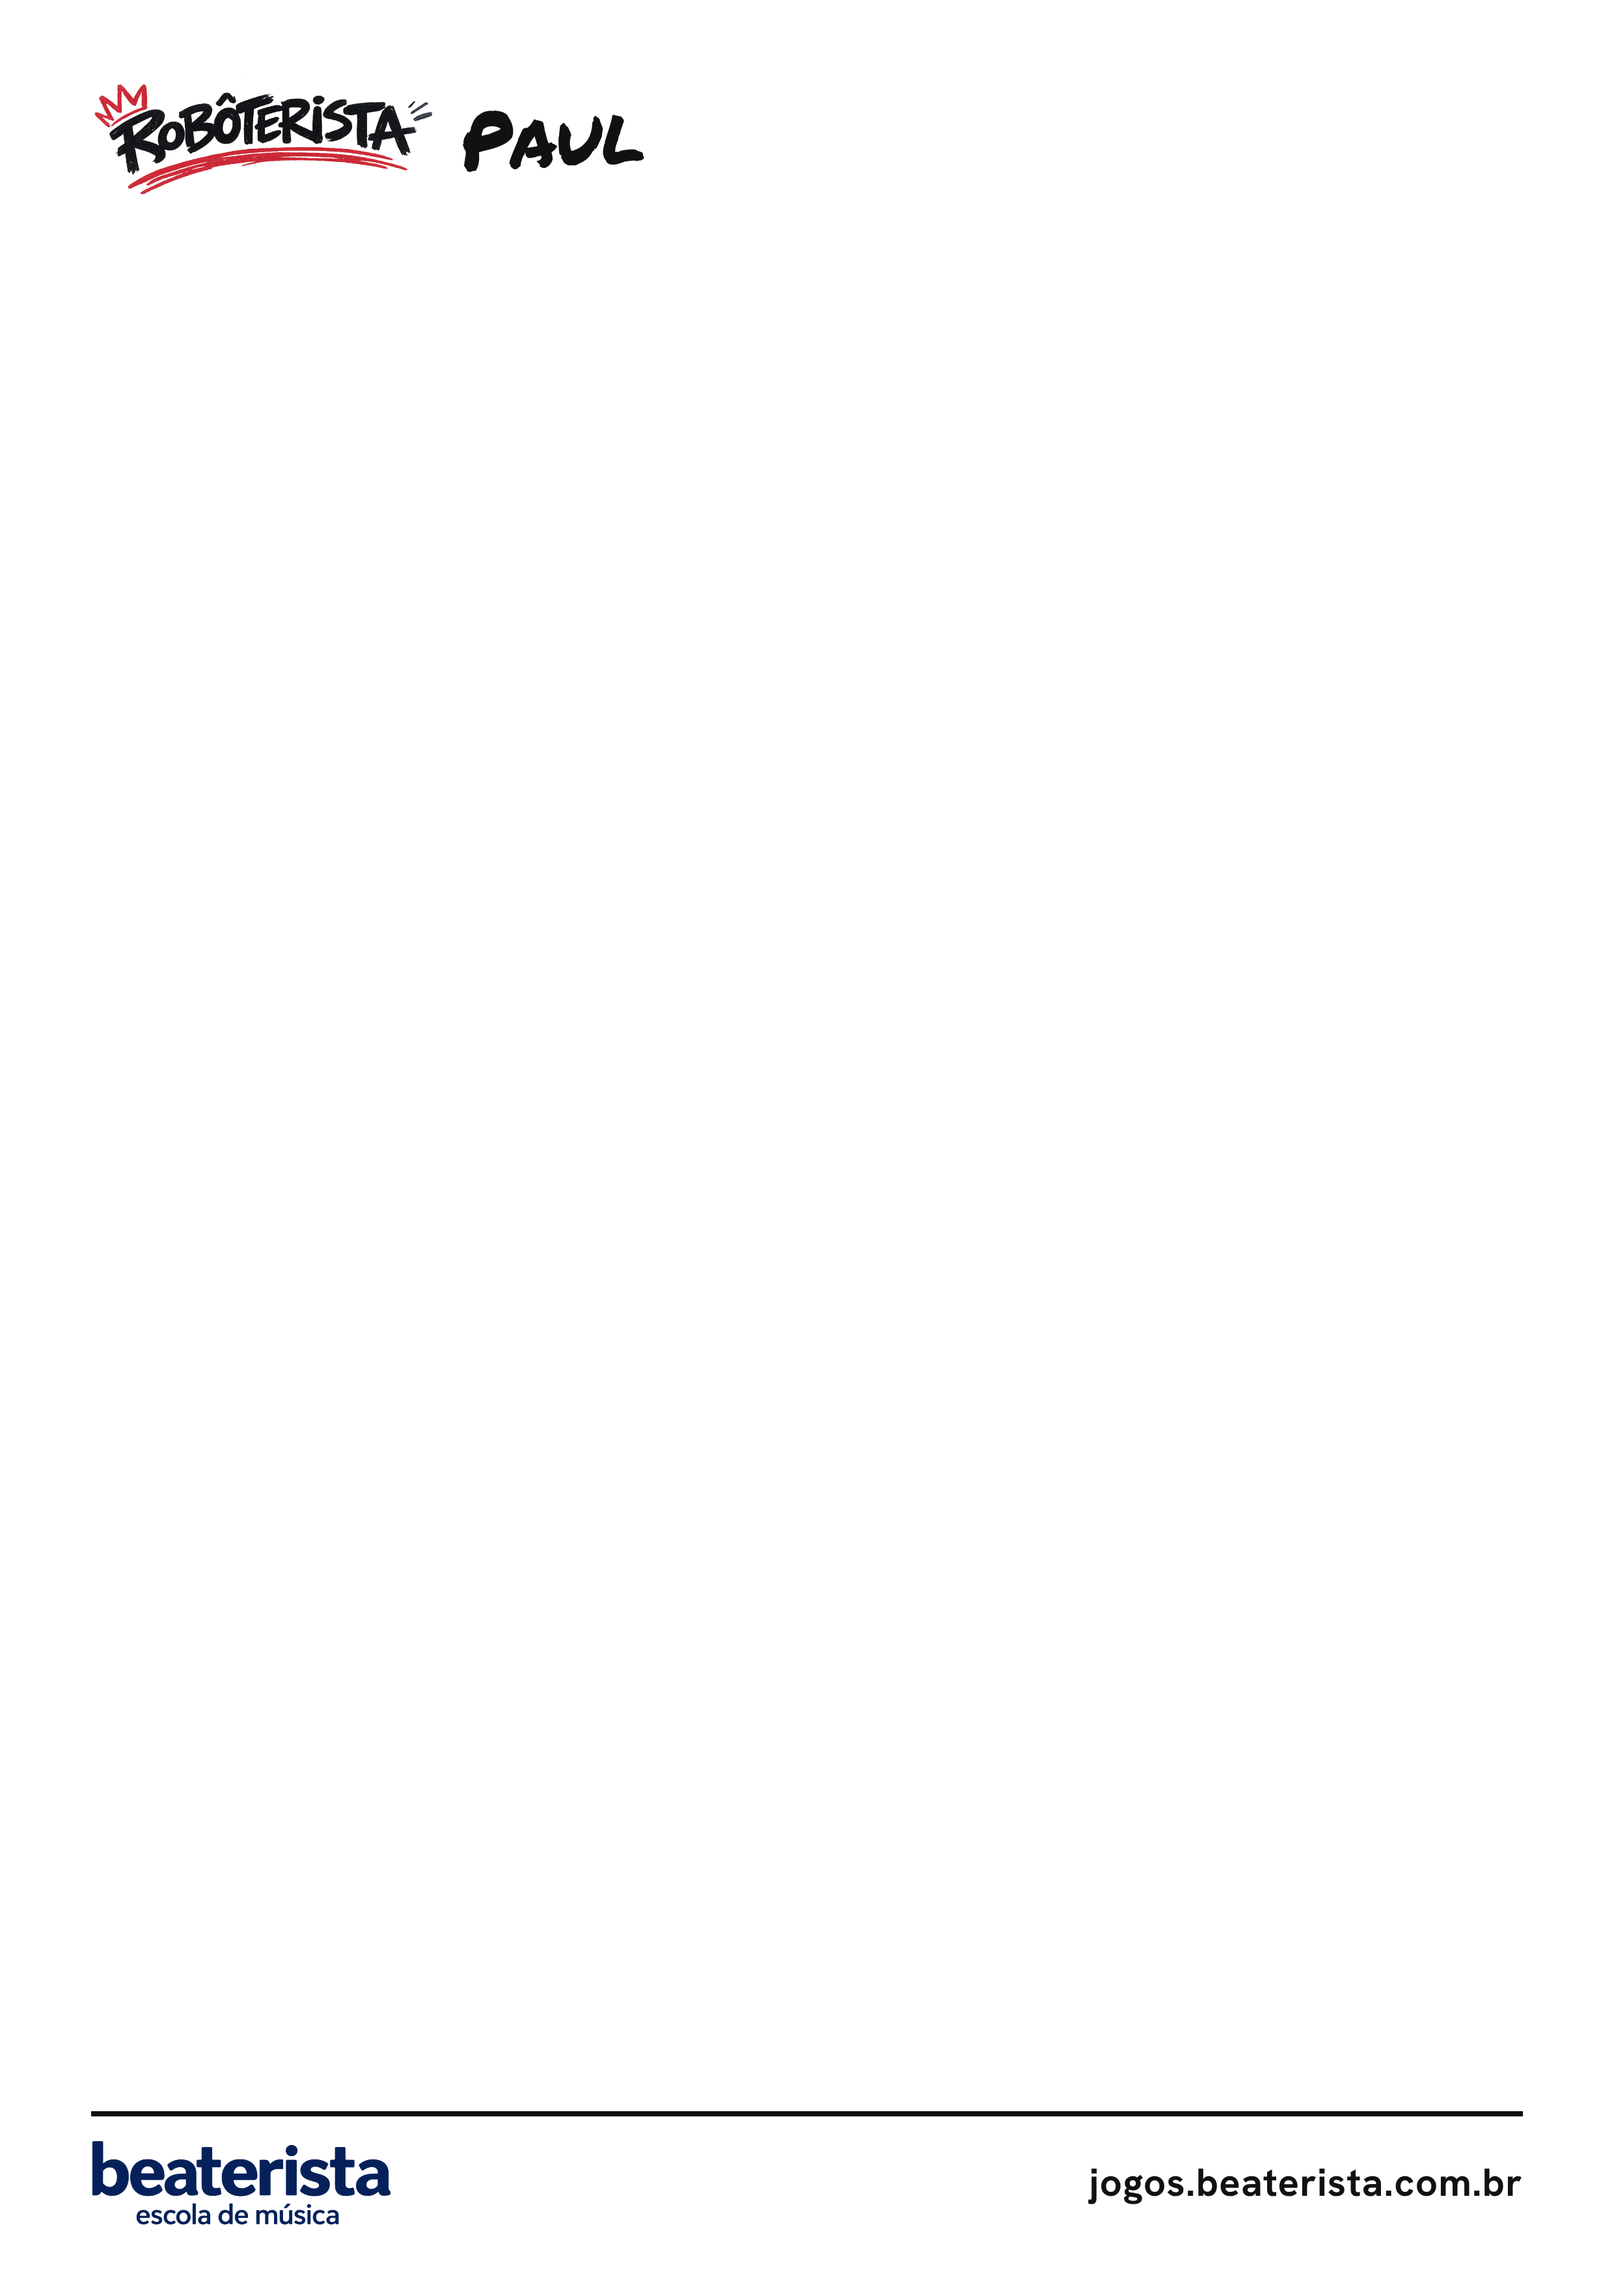
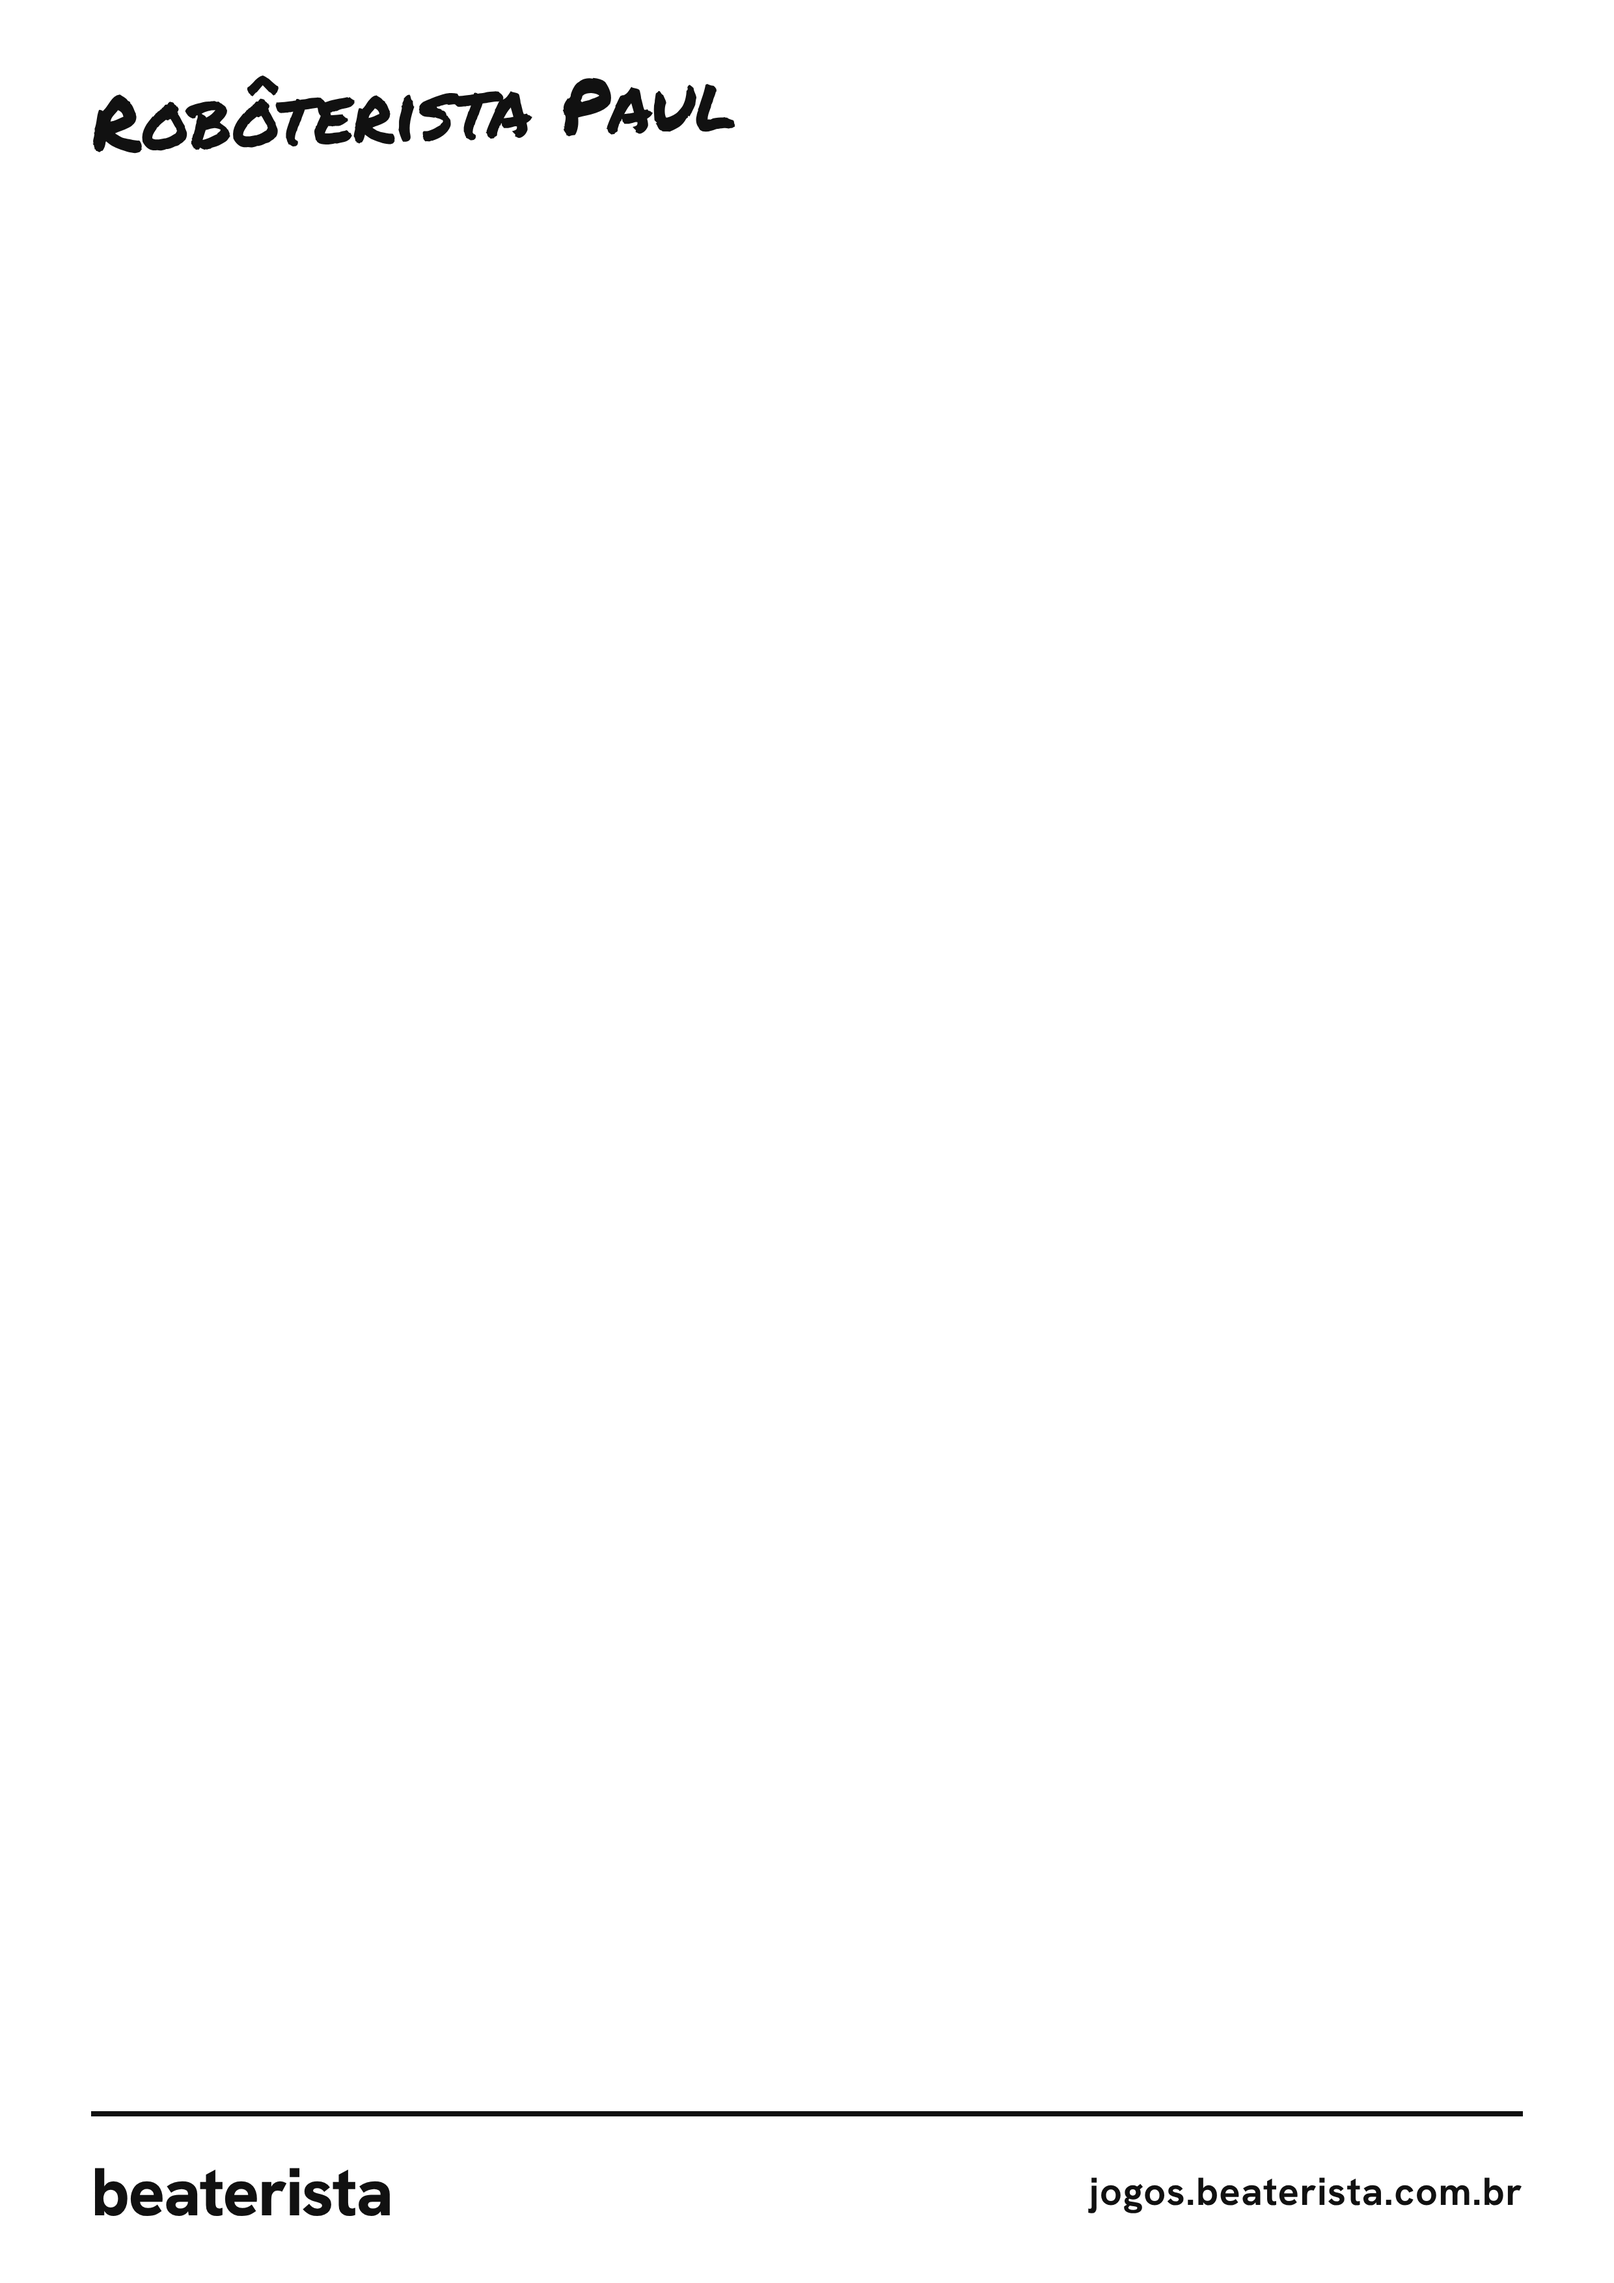
Fundos A4 de colorir: tudo escrito e em preto e branco (4 opções)
Claude-Session: https://claude.ai/code/session_017Ekti4WphxnBKQZ26FjJeN

Changed region(s): [[0.0621, 0.0311, 0.4657, 0.0932], [0.031, 0.9322, 0.2484, 0.9943], [0.6831, 0.9322, 0.9315, 0.9632]]

diff --git a/PASSAGEM.md b/PASSAGEM.md
@@ -85,7 +85,7 @@ Resumo do que existe, onde fica e como publicar. A Bea trabalha **uma ferramenta
     - Folhas e recortes em `assets/originals/paul-png/folhas-estudo/` (`recortes-folha-1..4/paul-POSE.png`, uns 350 a 500 px cada, tamanho original, sem ampliar). Recorte pelo contorno: `python3 scripts/paul-recortar-folha.py FOLHA.png PASTA` (precisa `pip install scipy`). Na folha 1 os desenhos encostam um no outro: 3 recortes saíram com defeito e foram apagados (ouvindo, pad, pad-metronomo). As folhas 5 e 6 vieram **com fundo cinza borrado** (não transparente): ficaram guardadas inteiras, sem recortar.
     - Os escolhidos pro app ficam em `coloridos-media/` (lendo-partitura, ouvindo, pad, escrevendo, pad-metronomo, mostrando-partitura, estante); `scripts/paul-colorido-webp.py` lê `coloridos-media` e `coloridos-hd` (o em alta ganha). `POSES` agora tem 26. Onde entram: Figuras = estante, Toca Aqui = pad, humor `idea` = escrevendo; dicas do cartão azul com pad, pad-metronomo, metronomo e estante.
     - Cartazes 17 (colorindo), 18 (metronomo) e 19 (**"o treino do Paul em 8 passos"**, grade com as 8 poses de estudo; no script é o item com `grade`). Agora são 19.
-  - **Pra colorir (pedido da Bea em 14/nov, pra VENDER NA LOJINHA)**: **a Bea decidiu mandar as artes de colorir já prontas (em linha); não gerar traço por programa.** Quando chegarem: guardar em `pra-colorir/`, subir pro Drive e montar o PDF da Lojinha. **Fundos de página A4** prontos pra receber o desenho (ela pediu 4 opções; todos com beaterista, jogos.beaterista.com.br e Robôterista Paul): `pra-colorir/fundos/fundo-a4-1-limpo`, `2-rabiscos`, `3-caderno`, `4-marca` (2480×3508), feitos por `scripts/paul-colorir-fundos.mjs` (passando um desenho como 2º argumento ele já encaixa na área livre). **Falta ela escolher o fundo.** O que segue é só histórico das tentativas: a 1ª tentativa (traço tirado direto, com sujeirinha do giz, e 3 layouts de folha) ela **não gostou: o problema era o traço**, não o layout. 2ª tentativa: `python3 scripts/paul-traco.py [nome]` (precisa `pip install opencv-python-headless scikit-image`) gera 3 traços lisos em `pra-colorir/traco-A`, `traco-B` e `traco-C`: **A** limpo (visor preto, roupa toda branca) · **B** vazado (visor branco, dá pra pintar o rosto; é o mais fraco, sobra risquinho na calça) · **C** grosso (pros pequenos). Folha A4 (2480×3508): `TRACO=A NODE_PATH=$(npm root -g) node scripts/paul-colorir-paginas.mjs PASTA_DE_SAIDA 1 [nome]` (os modelos 1 a 3 de layout continuam no script). Amostras com o Paul da guitarra em `pra-colorir/amostras/`. Quando ela escolher: gerar pros 18 em alta, montar o PDF (capa + páginas) e só então pôr na Lojinha. Limite: o traço é tirado da arte colorida por programa; pra ficar perfeito, o ideal é a Bea pedir as artes já em versão "linha" a quem gera os Pauls.
+  - **Pra colorir (pedido da Bea em 14/nov, pra VENDER NA LOJINHA)**: **a Bea decidiu mandar as artes de colorir já prontas (em linha); não gerar traço por programa.** Quando chegarem: guardar em `pra-colorir/`, subir pro Drive e montar o PDF da Lojinha. **Fundos de página A4** prontos pra receber o desenho (ela pediu 4 opções; todos com beaterista, jogos.beaterista.com.br e Robôterista Paul): `pra-colorir/fundos/fundo-a4-1-limpo`, `2-rabiscos`, `3-caderno`, `4-quadro` (2480×3508; **tudo escrito e em preto e branco**, sem logo e sem cor: foi o que ela pediu depois de ver a 1ª versão com logos e uma opção colorida), feitos por `scripts/paul-colorir-fundos.mjs` (passando um desenho como 2º argumento ele já encaixa na área livre). **Falta ela escolher o fundo.** O que segue é só histórico das tentativas: a 1ª tentativa (traço tirado direto, com sujeirinha do giz, e 3 layouts de folha) ela **não gostou: o problema era o traço**, não o layout. 2ª tentativa: `python3 scripts/paul-traco.py [nome]` (precisa `pip install opencv-python-headless scikit-image`) gera 3 traços lisos em `pra-colorir/traco-A`, `traco-B` e `traco-C`: **A** limpo (visor preto, roupa toda branca) · **B** vazado (visor branco, dá pra pintar o rosto; é o mais fraco, sobra risquinho na calça) · **C** grosso (pros pequenos). Folha A4 (2480×3508): `TRACO=A NODE_PATH=$(npm root -g) node scripts/paul-colorir-paginas.mjs PASTA_DE_SAIDA 1 [nome]` (os modelos 1 a 3 de layout continuam no script). Amostras com o Paul da guitarra em `pra-colorir/amostras/`. Quando ela escolher: gerar pros 18 em alta, montar o PDF (capa + páginas) e só então pôr na Lojinha. Limite: o traço é tirado da arte colorida por programa; pra ficar perfeito, o ideal é a Bea pedir as artes já em versão "linha" a quem gera os Pauls.
   - Ainda em baixa de verdade (só o adesivo pequeno): baquetas-pra-cima. Em tamanho médio (recorte de folha): lendo-partitura, ouvindo e as 5 poses de estudo.
   - Só na branch `claude/exciting-lovelace-ygequf`: **não publicado** (nem app da Bea nem alunos).
 - Cuidado ao recortar imagens: nunca por grade fixa (cortava orelhas e laterais); usar o contorno do desenho.
